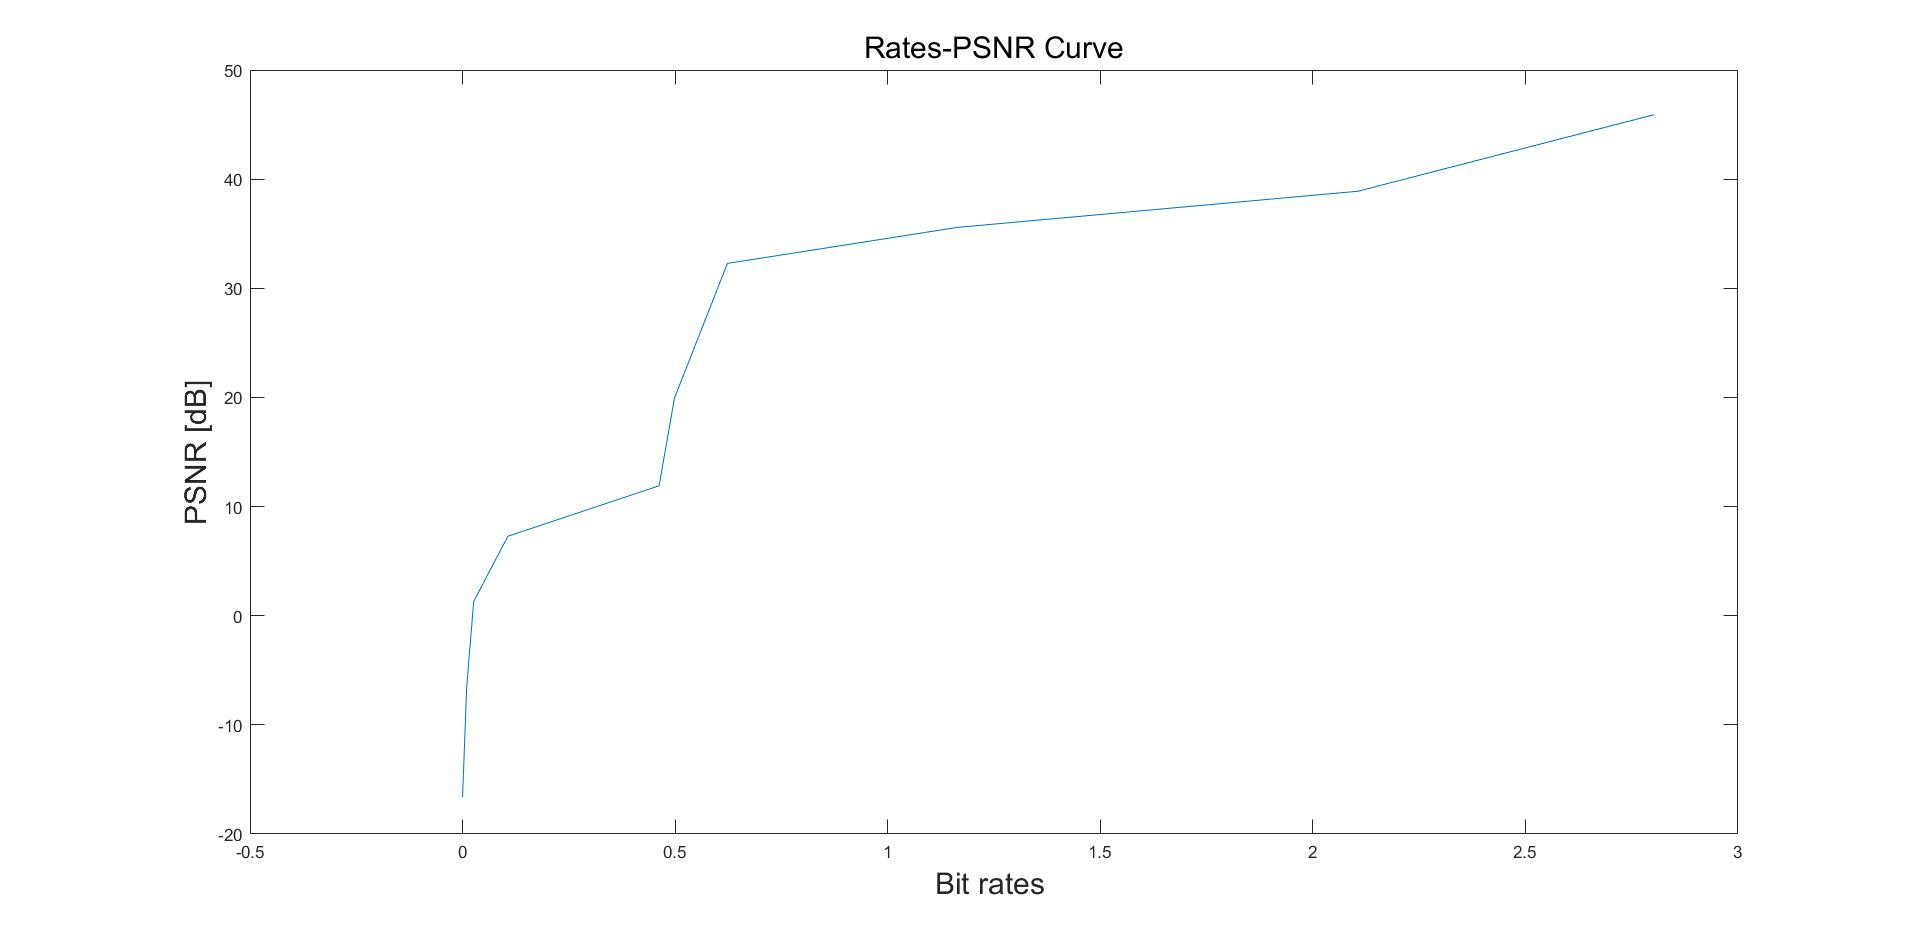
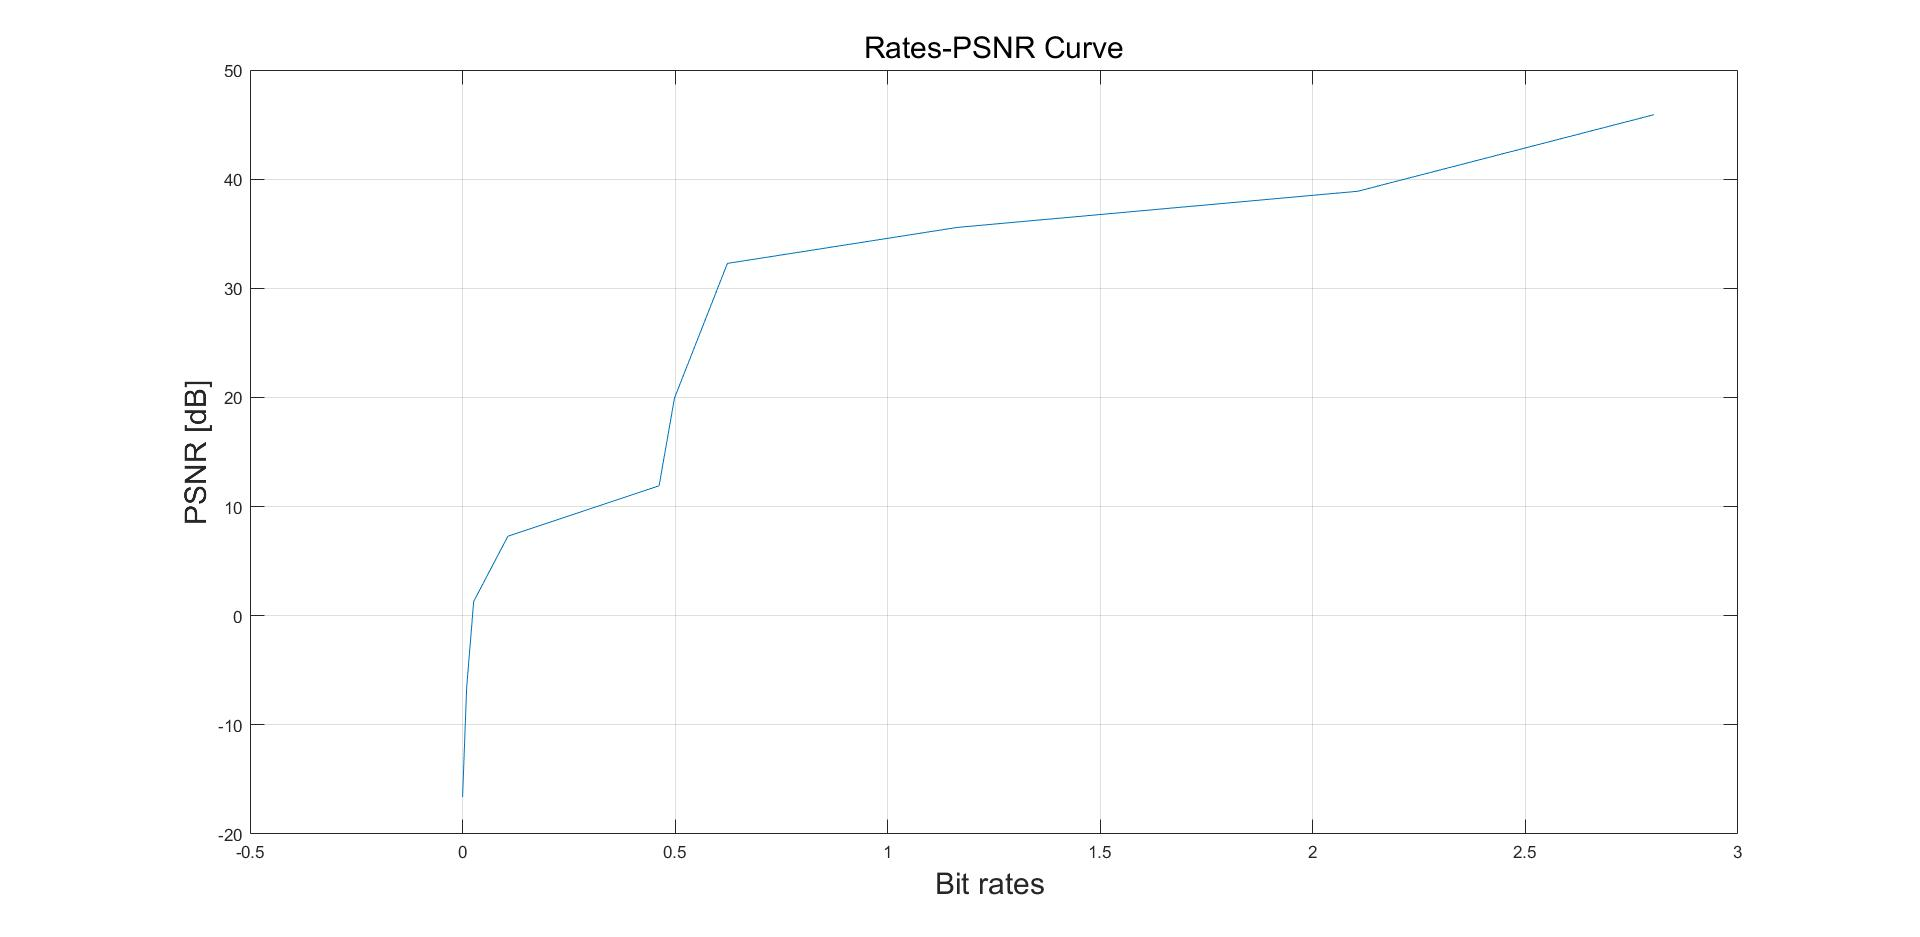
Add files via upload
DCT Part

diff --git a/proj_2.m b/proj_2.m
@@ -43,7 +43,7 @@ mse2=(dct_img_quan-dct_img)'*(dct_img_quan-dct_img);
 %DCT-2 for each block
 %block_dct = blockproc(x,[8 8],@dct2);
 %block_idct = blockproc(block_dct,[8 8],@idct2);
-
+uniform_quantizer = @(x,ssize) round(x/ssize)*ssize;
 pepper=im2double(imread('images/peppers512x512.tif'));
 harbor=im2double(imread('images/harbour512x512.tif'));
 boat=im2double(imread('images/boats512x512.tif'));
@@ -63,6 +63,7 @@ for i=1:size(step,2)
     quan_harbor=mid_tread_quan(dct_harbor,quant);
     quan_boat=mid_tread_quan(dct_boat,quant);
     psnrs(i)=psnr([quan_pepper,quan_harbor,quan_boat],[dct_pepper,dct_harbor,dct_boat]);
+    %psnrs(i)=10*log10((255^2)/psnrs(i));
 transform = zeros(8,8,64,64,3); 
 k=1:64; l=1:64;
 for w=1:8
@@ -88,6 +89,8 @@ figure;
 surf(entropy);
 figure;
 plot(bits,psnrs)
+%axis([0 5 -10 50])
+grid on
 xlabel('Bit rates ','fontSize',18)
 ylabel('PSNR [dB]','fontSize',18)
 title('Rates-PSNR Curve','fontSize',18)
